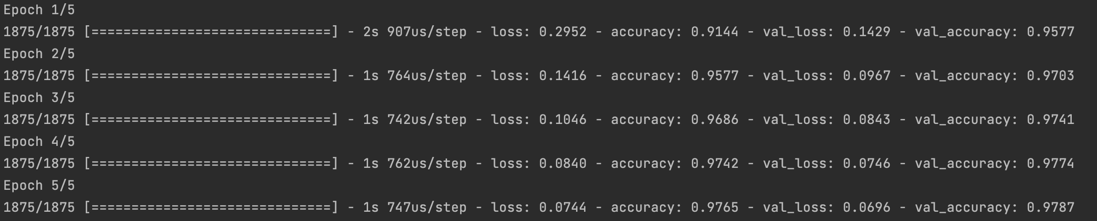
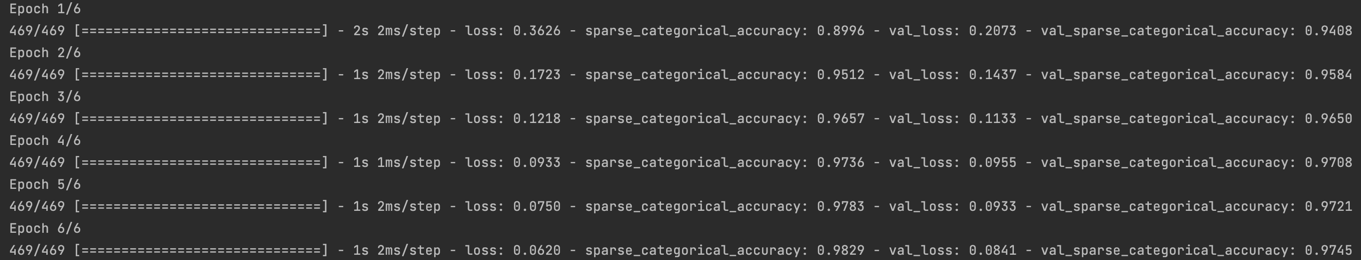
update main

Changed region(s): [[0.0, 0.5973, 1.0, 1.0], [0.0, 0.0, 1.0, 0.4887], [0.0, 0.5158, 0.9918, 0.5701]]

diff --git a/test.py b/test.py
@@ -6,35 +6,18 @@ import tensorflow as tf
 class TestLib(unittest.TestCase):
 
     def test_load_data(self):
-        # Test if data loading function works correctly
-        (x_train, y_train), (x_test, y_test) = lib.load_data()
-        
+        # Test if data loading function with TFDS works correctly
+        ds_train, ds_test = lib.load_data()
+
         # Check if datasets are not empty
-        self.assertTrue(len(x_train) > 0 and len(y_train) > 0)
-        self.assertTrue(len(x_test) > 0 and len(y_test) > 0)
+        self.assertTrue(isinstance(ds_train, tf.data.Dataset))
+        self.assertTrue(isinstance(ds_test, tf.data.Dataset))
 
-        # Check shapes of the datasets
-        self.assertEqual(x_train.shape, (60000, 28, 28))
-        self.assertEqual(x_test.shape, (10000, 28, 28))
-        self.assertEqual(y_train.shape, (60000,))
-        self.assertEqual(y_test.shape, (10000,))
-
-    def test_create_model(self):
-        # Test if model creation function works correctly
-        model = lib.create_model()
-
-        # Check if the model is of the correct type
-        self.assertIsInstance(model, tf.keras.Sequential)
-
-        # Check the model structure
-        self.assertEqual(len(model.layers), 4)
-        self.assertIsInstance(model.layers[0], tf.keras.layers.Flatten)
-        self.assertIsInstance(model.layers[1], tf.keras.layers.Dense)
-        self.assertIsInstance(model.layers[2], tf.keras.layers.Dropout)
-        self.assertIsInstance(model.layers[3], tf.keras.layers.Dense)
-
-        # Check the output shape of the model
-        self.assertEqual(model.output_shape, (None, 10))
+        # Check one batch of data
+        for images, labels in ds_train.take(1):
+            self.assertEqual(images.shape, (128, 28, 28, 1))
+            self.assertEqual(labels.shape, (128,))
+            self.assertTrue((images.numpy() >= 0).all() and (images.numpy() <= 1).all())
 
 
 if __name__ == '__main__':

diff --git a/main.py b/main.py
@@ -1,33 +1,32 @@
 import mlflow
 import mlflow.tensorflow
 import lib
-import tensorflow as tf
 
 with mlflow.start_run():
     # Load data
-    (x_train, y_train), (x_test, y_test) = lib.load_data()
+    ds_train, ds_test = lib.load_data()
 
     # Create model
     model = lib.create_model()
 
-    # Compile model
-    model.compile(optimizer='adam',
-                  loss=tf.keras.losses.SparseCategoricalCrossentropy(from_logits=True),
-                  metrics=['accuracy'])
-
     # Train model
-    history = model.fit(x_train, y_train, epochs=5, validation_data=(x_test, y_test))
+    history = model.fit(
+        ds_train,
+        epochs=6,
+        validation_data=ds_test,
+    )
 
-    # Log parameters and results
-    mlflow.log_param("epochs", 5)
-    mlflow.log_metric("train_accuracy", history.history['accuracy'][-1])
-    mlflow.log_metric("val_accuracy", history.history['val_accuracy'][-1])
+    # Log parameters and metrics
+    mlflow.log_param("epochs", 6)
+    mlflow.log_metric("train_accuracy", history.history['sparse_categorical_accuracy'][-1])
+    mlflow.log_metric("val_accuracy", history.history['val_sparse_categorical_accuracy'][-1])
 
-    # Assuming x_test is your test dataset and model is your trained model
-    predictions = model.predict(x_test)
+    # Prepare a sample input for signature inference
+    sample_input, _ = next(iter(ds_test.take(1)))
+    sample_prediction = model.predict(sample_input)
 
     # Infer the signature
-    signature = mlflow.models.infer_signature(x_test, predictions)
+    signature = mlflow.models.infer_signature(sample_input.numpy(), sample_prediction)
 
     # Log the model with the signature
     mlflow.tensorflow.log_model(model, artifact_path="model", signature=signature)

diff --git a/lib.py b/lib.py
@@ -1,18 +1,43 @@
 import tensorflow as tf
-from tensorflow.keras.datasets import mnist
+import tensorflow_datasets as tfds
 
 
 def load_data():
-    (x_train, y_train), (x_test, y_test) = mnist.load_data()
-    x_train, x_test = x_train / 255.0, x_test / 255.0  # Normalization
-    return (x_train, y_train), (x_test, y_test)
+    (ds_train, ds_test), ds_info = tfds.load(
+        'mnist',
+        split=['train', 'test'],
+        shuffle_files=True,
+        as_supervised=True,
+        with_info=True,
+    )
+
+    def normalize_img(image, label):
+        """Normalizes images: `uint8` -> `float32`."""
+        return tf.cast(image, tf.float32) / 255., label
+
+    ds_train = ds_train.map(normalize_img, num_parallel_calls=tf.data.AUTOTUNE)
+    ds_train = ds_train.cache()
+    ds_train = ds_train.shuffle(ds_info.splits['train'].num_examples)
+    ds_train = ds_train.batch(128)
+    ds_train = ds_train.prefetch(tf.data.AUTOTUNE)
+
+    ds_test = ds_test.map(normalize_img, num_parallel_calls=tf.data.AUTOTUNE)
+    ds_test = ds_test.batch(128)
+    ds_test = ds_test.cache()
+    ds_test = ds_test.prefetch(tf.data.AUTOTUNE)
+
+    return ds_train, ds_test
 
 
 def create_model():
     model = tf.keras.models.Sequential([
         tf.keras.layers.Flatten(input_shape=(28, 28)),
         tf.keras.layers.Dense(128, activation='relu'),
-        tf.keras.layers.Dropout(0.2),
         tf.keras.layers.Dense(10)
     ])
+    model.compile(
+        optimizer=tf.keras.optimizers.Adam(0.001),
+        loss=tf.keras.losses.SparseCategoricalCrossentropy(from_logits=True),
+        metrics=[tf.keras.metrics.SparseCategoricalAccuracy()],
+    )
     return model

diff --git a/README.md b/README.md
@@ -14,10 +14,14 @@
 2. Tensorflow 2.5.0 or above
 3. mlflow 1.19.0 or above
 2. Set Up MLflow: Install MLflow (pip install mlflow). Ensure you have an MLflow tracking server or use the default local file system to store data. 
-2. Run the Project: Execute main.py. It will run the model and track the experiment with MLflow. 
+2. Run the Project: Execute main.py. It will run the model and track the experiment with MLflow.
+3. view and load ML models saved in `mlruns` folder
 
 ## Run and Result
 
+This project I use the `mnist` dataset to train a simple CNN model. The model is saved in `mlruns` folder. 
+- 6 epochs training result
+- 
 ![img.png](img.png)
 
 ## Reference
